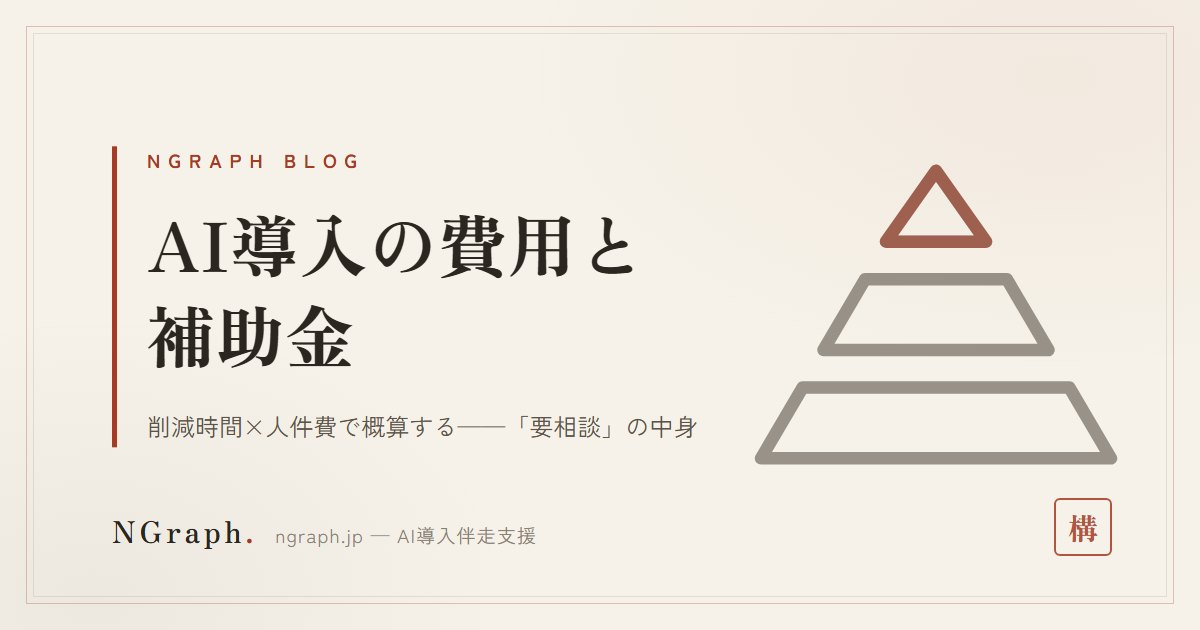
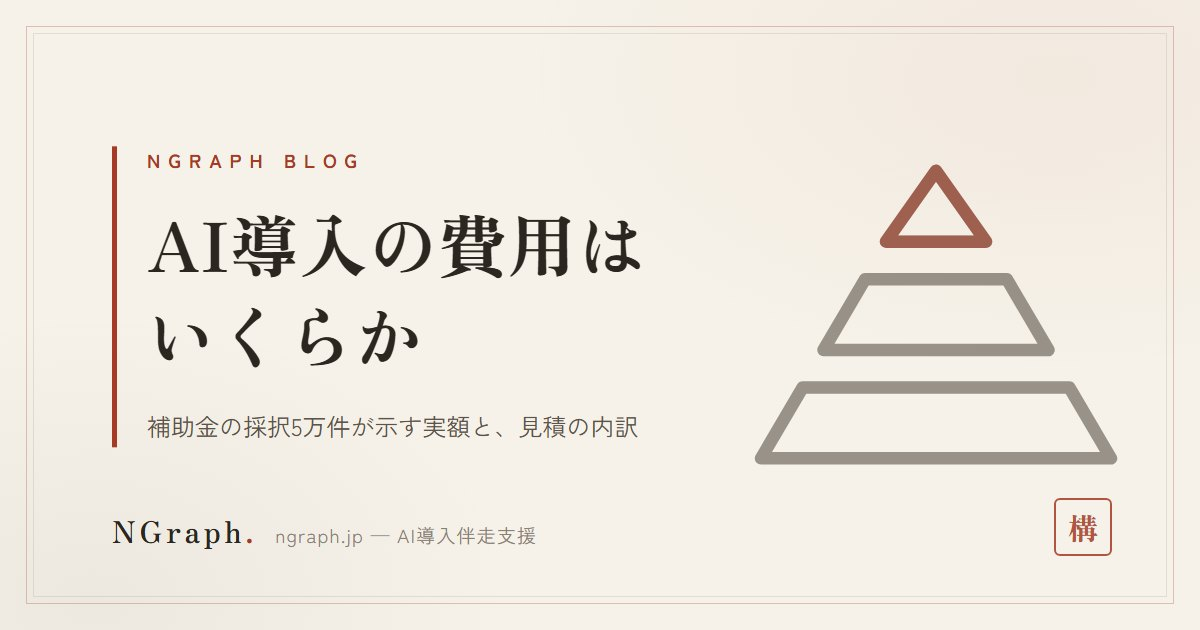
blog: ai-cost.html を深掘りB型に全面改稿
補助金採択5万件の交付額分布・3制度の実額・費用でつまずくNGパターン6つを
一次情報4本で構成し直し、1,800字程度の記事から7,000字規模のSEO/AIO資産に増強。

Changed region(s): [[0.1233, 0.4825, 0.37, 0.6032], [0.1233, 0.6635, 0.5858, 0.6937], [0.4625, 0.3317, 0.555, 0.4524]]

diff --git a/blog/ai-cost.html b/blog/ai-cost.html
@@ -10,10 +10,10 @@
   gtag('js', new Date());
   gtag('config', 'G-L96HMXRK1D');
 </script>
-<title>AI導入支援の費用はどう考えればいいか——「要相談」の中身を正直に書く | NGraphブログ</title>
-<meta name="description" content="AI導入支援の料金が「要相談」になりがちな理由と、見積の内訳を決める変数、費用対効果の考え方を正直に解説します。">
-<meta property="og:title" content="AI導入支援の費用はどう考えればいいか——「要相談」の中身を正直に書く | NGraphブログ">
-<meta property="og:description" content="AI導入支援の料金が「要相談」になりがちな理由と、見積の内訳を決める変数、費用対効果の考え方を正直に解説します。">
+<title>AI導入の費用はいくらか——補助金の採択5万件データで見る実額と見積の内訳 | NGraphブログ</title>
+<meta name="description" content="AI導入の費用は何にいくらかかるのか。補助金の採択5万件の交付額分布、3制度の補助率・上限、費用でつまずくNGパターンを一次情報で解説します。">
+<meta property="og:title" content="AI導入の費用はいくらか——補助金の採択5万件データで見る実額と見積の内訳 | NGraphブログ">
+<meta property="og:description" content="AI導入の費用は何にいくらかかるのか。補助金の採択5万件の交付額分布、3制度の補助率・上限、費用でつまずくNGパターンを一次情報で解説します。">
 <meta property="og:type" content="article">
 <meta property="og:url" content="https://ngraph.jp/blog/ai-cost.html">
 <meta property="og:site_name" content="株式会社NGraph">
@@ -21,22 +21,23 @@
 <meta property="og:image" content="https://ngraph.jp/assets/blog/ai-cost.jpg">
 <meta property="og:image:width" content="1200">
 <meta property="og:image:height" content="630">
+<meta name="twitter:card" content="summary_large_image">
 <link rel="canonical" href="https://ngraph.jp/blog/ai-cost.html">
 <link rel="icon" href="/assets/favicon.svg" type="image/svg+xml">
 <link rel="preconnect" href="https://fonts.googleapis.com">
 <link rel="preconnect" href="https://fonts.gstatic.com" crossorigin>
 <link href="https://fonts.googleapis.com/css2?family=Zen+Old+Mincho:wght@400;600;700;900&family=Zen+Kaku+Gothic+New:wght@400;500;700&family=Noto+Sans+JP:wght@400;500;700&display=swap" rel="stylesheet">
 <link rel="stylesheet" href="/css/ngraph-zen.css?v=5">
-<style>.a-faq details{border:1px solid var(--border);border-radius:3px;background:var(--bg-card);margin-bottom:10px;padding:0 18px}.a-faq summary{font-family:var(--serif);font-size:.92rem;font-weight:700;line-height:1.7;padding:14px 0;cursor:pointer;list-style:none;position:relative;padding-right:26px}.a-faq summary::after{content:"\uFF0B";position:absolute;right:2px;top:50%;transform:translateY(-50%);color:var(--accent)}.a-faq details[open] summary::after{content:"\u2212"}.a-faq details p{font-size:.86rem;color:var(--text-2);line-height:2;padding:0 0 16px}.a-note{background:rgba(166,58,36,.05);border-left:2.5px solid var(--accent);padding:16px 20px;border-radius:0 3px 3px 0;font-size:.88rem;color:var(--text-2);line-height:2.1;margin:26px 0}.a-note strong{color:var(--text)}.a-table-wrap{overflow-x:auto;margin:18px 0}.a-table{width:100%;border-collapse:collapse;font-size:.84rem}.a-table th,.a-table td{border:1px solid var(--border);padding:9px 12px;text-align:left;line-height:1.8;color:var(--text-2)}.a-table th{background:rgba(166,58,36,.05);color:var(--text);font-weight:700;white-space:nowrap}.a-eyecatch{width:100%;height:auto;display:block;border:1px solid var(--border);border-radius:4px;margin:24px 0 8px}</style>
+<style>.a-faq details{border:1px solid var(--border);border-radius:3px;background:var(--bg-card);margin-bottom:10px;padding:0 18px}.a-faq summary{font-family:var(--serif);font-size:.92rem;font-weight:700;line-height:1.7;padding:14px 0;cursor:pointer;list-style:none;position:relative;padding-right:26px}.a-faq summary::after{content:"＋";position:absolute;right:2px;top:50%;transform:translateY(-50%);color:var(--accent)}.a-faq details[open] summary::after{content:"−"}.a-faq details p{font-size:.86rem;color:var(--text-2);line-height:2;padding:0 0 16px}.a-note{background:rgba(166,58,36,.05);border-left:2.5px solid var(--accent);padding:16px 20px;border-radius:0 3px 3px 0;font-size:.88rem;color:var(--text-2);line-height:2.1;margin:26px 0}.a-note strong{color:var(--text)}.a-table-wrap{overflow-x:auto;margin:18px 0}.a-table{width:100%;border-collapse:collapse;font-size:.84rem}.a-table th,.a-table td{border:1px solid var(--border);padding:9px 12px;text-align:left;line-height:1.8;color:var(--text-2)}.a-table th{background:rgba(166,58,36,.05);color:var(--text);font-weight:700;white-space:nowrap}.a-eyecatch{width:100%;height:auto;display:block;border:1px solid var(--border);border-radius:4px;margin:24px 0 8px}.a-fig-wrap{background:var(--bg-card);border:1px solid var(--border);border-radius:4px;padding:22px 18px 14px;margin:26px 0}.a-fig-title{font-family:var(--serif);font-size:.95rem;font-weight:700;text-align:center;margin-bottom:10px;color:var(--text)}.a-fig-cap{font-size:.8rem;color:var(--text-3);line-height:1.95;margin-top:10px}.a-src{border-top:1px solid var(--border);margin-top:34px;padding-top:16px;font-size:.78rem;color:var(--text-3);line-height:2}.a-src a{color:var(--text-3);text-decoration:underline}.a-toc{background:var(--bg-card);border:1px solid var(--border);border-radius:3px;padding:16px 20px;margin:20px 0;font-size:.86rem;color:var(--text-2);line-height:2}.a-toc strong{color:var(--text)}</style>
 <script type="application/ld+json">
 {
   "@context": "https://schema.org",
   "@type": "Article",
-  "headline": "AI導入支援の費用はどう考えればいいか——「要相談」の中身を正直に書く",
+  "headline": "AI導入の費用はいくらか——補助金の採択5万件データで見る実額と見積の内訳",
   "image": "https://ngraph.jp/assets/blog/ai-cost.jpg",
-  "description": "AI導入支援の料金が「要相談」になりがちな理由と、見積の内訳を決める変数、費用対効果の考え方を正直に解説します。",
+  "description": "AI導入の費用は何にいくらかかるのか。補助金の採択5万件の交付額分布、3制度の補助率・上限、費用でつまずくNGパターンを一次情報で解説します。",
   "datePublished": "2026-07-14",
-  "dateModified": "2026-07-17",
+  "dateModified": "2026-08-01",
   "inLanguage": "ja",
   "mainEntityOfPage": "https://ngraph.jp/blog/ai-cost.html",
   "author": { "@type": "Person", "name": "髙橋 真吾", "jobTitle": "代表取締役", "url": "https://ngraph.jp/company#team", "worksFor": { "@type": "Organization", "name": "株式会社NGraph", "url": "https://ngraph.jp/" } },
@@ -53,7 +54,7 @@
    "name": "最低いくらから頼めますか？",
    "acceptedAnswer": {
     "@type": "Answer",
-    "text": "範囲を絞った数週間のスポット支援から受けています。金額は対象業務の範囲と連携の複雑さで変わるため、無料相談で前提を伺ったうえで概算をお答えしています。"
+    "text": "範囲を絞った数週間のスポット支援から受けています。金額は対象範囲・訪問頻度と期間・連携の複雑さという3つの変数で変わるため、無料相談で前提を伺ったうえで概算をお答えしています。"
    }
   },
   {
@@ -61,7 +62,7 @@
    "name": "補助金は使えますか？",
    "acceptedAnswer": {
     "@type": "Answer",
-    "text": "使える場合が多いです（本文の表を参照）。ただし交付決定前の着手は対象外になるのが原則なので、申請と着手の順序から一緒に設計することをおすすめします。"
+    "text": "使える場合が多いです。デジタル化・AI導入補助金2026、中小企業省力化投資補助金（一般型）、業務改善助成金など、AI導入に使える制度は複数あります（本文の表を参照）。ただし交付決定前の着手は対象外になるのが原則なので、申請と着手の順序から一緒に設計することをおすすめします。"
    }
   },
   {
@@ -69,7 +70,39 @@
    "name": "導入後の月額費用はどれくらいかかりますか？",
    "acceptedAnswer": {
     "@type": "Answer",
-    "text": "AIの利用料（APIやツールの課金）は使用量に応じて変わります。当社では設計の段階で「月いくらまで」の上限を決めてから組むのを標準にしています。"
+    "text": "AIの利用料（APIやツールの課金）は使用量に応じて変わります。デジタル化・AI導入補助金2026ではクラウド利用料も補助対象ですが最大2年分までなので、3年目以降は自己負担になる前提で予算を組む必要があります。当社では設計の段階で「月いくらまで」の上限を決めてから組むのを標準にしています。"
+   }
+  },
+  {
+   "@type": "Question",
+   "name": "補助金の上限額まで使ったほうが得ですか",
+   "acceptedAnswer": {
+    "@type": "Answer",
+    "text": "そうとは限りません。IT導入補助金2024の採択実績では、交付額100万円未満の採択が18,417件（36.7%）で最多だった一方、上限450万円に達した採択は105件（0.2%）にとどまりました。上限は天井であって相場ではなく、自社の課題に必要な範囲で設計するのが基本です。"
+   }
+  },
+  {
+   "@type": "Question",
+   "name": "補助金が不採択だったらどうなりますか",
+   "acceptedAnswer": {
+    "@type": "Answer",
+    "text": "IT導入補助金の採択率は2024年の69.9%から2025年は43.8%まで下がっています。不採択でも実施できるよう、補助金が採択された前提で資金繰りを組まないことが重要です。交付決定前に発注・契約すると対象外になる原則もあるため、申請から着手までの順序を最初に設計しておく必要があります。"
+   }
+  },
+  {
+   "@type": "Question",
+   "name": "AI導入の費用は経費と資産のどちらですか",
+   "acceptedAnswer": {
+    "@type": "Answer",
+    "text": "案件によって扱いが異なるため、断定はできません。会計処理・税務上の扱いは顧問税理士にご確認いただくことをおすすめします。"
+   }
+  },
+  {
+   "@type": "Question",
+   "name": "まず何から見積もればいいですか",
+   "acceptedAnswer": {
+    "@type": "Answer",
+    "text": "対象範囲（どの業務か）・訪問頻度と期間・既存システムとの連携の複雑さ、という3つの変数を整理することから始めます。当社では無料相談と現場診断を経てから見積もりを出しています。「まだ何を頼むか決まっていない」段階のご相談も歓迎です。"
    }
   }
  ]
@@ -91,41 +124,159 @@
 </header>
 
 <article class="article-wrap">
-  <div class="a-label">Blog</div>
-  <h1>AI導入支援の費用はどう考えればいいか——「要相談」の中身を正直に書く</h1>
-  <span class="a-date">2026.07.14 ｜ 株式会社NGraph</span>
+  <div class="a-label">Evening Deep Dive</div>
+  <h1>AI導入の費用はいくらか——補助金の採択5万件データで見る実額と見積の内訳</h1>
+  <span class="a-date">2026.07.14（2026.08.01 全面改稿） ｜ 株式会社NGraph</span>
   <img class="a-eyecatch" src="/assets/blog/ai-cost.jpg" alt="">
 
-<p>NGraphのFDE型伴走支援の料金は「要相談」です。ぼかしたいからではなく、<strong>課題の規模によって適正な支援の形が大きく変わる</strong>ためです。この記事では、見積が何で決まるのかを正直に書きます。</p>
-<h2>見積を決める3つの変数</h2>
+<p>AI導入の費用は「ツールの利用料」だけでは決まりません。設計や定着にかかる手間まで含めて考える必要があり、実際に中小企業がいくら動かしているかは、補助金の交付実績から推定できます。中小企業庁「デジタル化・AI導入補助金2026の概要」（令和8年4月）によれば、IT導入補助金2024の採択50,171件のうち、交付額100万円未満が18,417件（36.7%）で最多でした。この記事では、この採択データを軸に、費用の内訳と見積の考え方を一次情報で整理します。</p>
+<div class="a-toc"><strong>この記事でわかること</strong><br>
+・採択5万件が示す交付額の分布と、そこから見える実額のレンジ<br>
+・「上限450万円」と「交付額100万円未満が最多」がズレる3つの理由<br>
+・使える制度3つの実額と、費用でつまずく6つのNGパターン</div>
+
+<h2>AI導入の費用は「何に」かかるのか——3つの費目</h2>
+<p>AI導入の費用を考えるとき、まず整理すべきは「何にいくらかかるか」という費目です。大きく分けると3つに整理できます。</p>
+<div class="a-table-wrap"><table class="a-table">
+<tr><th>費目</th><th>補助対象になるか</th><th>発生タイミング</th></tr>
+<tr><td>ツール利用料</td><td>クラウド利用料として対象（最大2年分）</td><td>契約後、毎月継続</td></tr>
+<tr><td>設計・構築</td><td>ソフトウェア購入費・導入関連費（オプション）として対象</td><td>導入時に一括</td></tr>
+<tr><td>定着支援</td><td>導入関連費（役務）として対象</td><td>導入時〜運用開始後</td></tr>
+</table></div>
+<p>中小企業庁「デジタル化・AI導入補助金2026の概要」（令和8年4月）によれば、通常枠の補助対象経費には、ソフトウェア購入費、クラウド利用料（最大2年分）、導入関連費（オプション＝機能拡張やデータ連携ツールの導入・セキュリティ対策、役務＝導入・活用コンサルティング、導入設定・マニュアル作成・導入研修、保守サポート）が含まれます。つまり3つの費目はいずれも同じ補助金の対象になり得るということです。ここを知らずに「ツール代だけ」を見積もると、対象経費を使い切れず損をする設計になりがちです（後述のNGパターン④）。</p>
+
+<h2>実際にいくら出ているのか——採択5万件の交付額分布</h2>
+<p>では実際に、中小企業はいくら動かしているのでしょうか。中小企業庁の資料が示す、IT導入補助金2024の交付額規模別の採択件数（複数社連携枠を除く総計50,171件）を見ると、実額のレンジが見えてきます。</p>
+<div class="a-table-wrap"><table class="a-table">
+<tr><th>交付額規模</th><th>採択件数</th><th>構成比</th></tr>
+<tr><td>100万円未満</td><td>18,417件</td><td>36.7%</td></tr>
+<tr><td>100〜150万円未満</td><td>10,979件</td><td>21.9%</td></tr>
+<tr><td>150〜300万円未満</td><td>7,959件</td><td>15.9%</td></tr>
+<tr><td>300〜450万円未満</td><td>12,711件</td><td>25.3%</td></tr>
+<tr><td>450万円</td><td>105件</td><td>0.2%</td></tr>
+</table></div>
+<div class="a-fig-wrap">
+<p class="a-fig-title">交付額規模別の採択件数構成比（IT導入補助金2024・50,171件）</p>
+<svg viewBox="0 0 380 400" width="100%" role="img" aria-label="交付額100万円未満36.7%、100万円以上150万円未満21.9%、150万円以上300万円未満15.9%、300万円以上450万円未満25.3%、450万円0.2%、を示す横棒グラフ">
+<text x="16" y="24" font-size="15" fill="var(--text)" font-weight="700">100万円未満</text>
+<rect x="16" y="32" width="280" height="26" rx="3" fill="rgba(166,58,36,.85)"/>
+<text x="286" y="50" font-size="14" font-weight="800" fill="#fdfaf4" text-anchor="end">36.7%</text>
+<text x="16" y="98" font-size="15" fill="var(--text)" font-weight="700">100〜150万円未満</text>
+<rect x="16" y="106" width="167" height="26" rx="3" fill="rgba(92,84,74,.6)"/>
+<text x="173" y="124" font-size="14" font-weight="800" fill="#fdfaf4" text-anchor="end">21.9%</text>
+<text x="16" y="172" font-size="15" fill="var(--text)" font-weight="700">150〜300万円未満</text>
+<rect x="16" y="180" width="121" height="26" rx="3" fill="rgba(92,84,74,.45)"/>
+<text x="127" y="198" font-size="14" font-weight="800" fill="#fdfaf4" text-anchor="end">15.9%</text>
+<text x="16" y="246" font-size="15" fill="var(--text)" font-weight="700">300〜450万円未満</text>
+<rect x="16" y="254" width="193" height="26" rx="3" fill="rgba(92,84,74,.6)"/>
+<text x="183" y="272" font-size="14" font-weight="800" fill="#fdfaf4" text-anchor="end">25.3%</text>
+<text x="16" y="320" font-size="15" fill="var(--text)" font-weight="700">450万円（上限到達）</text>
+<rect x="16" y="328" width="8" height="26" rx="2" fill="rgba(92,84,74,.5)"/>
+<text x="32" y="346" font-size="14" font-weight="800" fill="var(--text-2)">0.2%</text>
+<text x="16" y="378" font-size="12.5" fill="var(--text-3)">出所：中小企業庁「デジタル化・AI導入補助金2026の概要」（令和8年4月）掲載のIT導入補助金2024実績より作成</text>
+</svg>
+<p class="a-fig-cap">件数は表の通り、100万円未満18,417件・100〜150万円未満10,979件・150〜300万円未満7,959件・300〜450万円未満12,711件・450万円105件（総計50,171件）です。</p>
+</div>
+<p>100万円未満と100〜150万円未満を合わせた「150万円未満」の採択は29,396件で、全体の58.6%を占めます。つまり、実際に交付されている金額の過半数は150万円に届いていません。上限の450万円ちょうどまで交付されたのは105件（0.2%）のみで、「上限いっぱい」はむしろ例外です。</p>
+<p>従業員規模別に見ても、採択の中心は小規模な事業者です。同資料の従業員数別採択件数では、5名未満が20,432件（構成比40.7%）、5〜50名未満が24,520件（48.9%）で、合わせて50名未満が89.6%を占めます。50〜100名未満は5.9%、100名以上は4.5%にとどまります。業種別では、建設業10,613件（21.2%）、卸売業,小売業8,873件（17.7%）、宿泊業,飲食サービス業4,986件（9.9%）が上位3業種でした。</p>
+<p style="font-size:.85rem;color:var(--text-3)">自社の場合はどのレンジになりそうか気になる方は、<a href="/fde/" style="color:var(--accent);border-bottom:1px solid var(--accent)">無料のAI診断</a>で現在地を確認できます。</p>
+
+<h2>「上限450万円」と「交付額100万円未満が最多」がズレる3つの理由</h2>
+<p>「補助上限は450万円」と聞くと、それが相場だと思ってしまいがちですが、実際の採択データは100万円未満が最多です。このズレには3つの理由があります。</p>
+<p><strong>① 上限は天井であって相場ではない。</strong>上限額は「これ以上は出ない」という天井の金額であり、平均的にいくら出るかを示す数字ではありません。前述の通り、実際の採択の58.6%は150万円未満に収まっています。</p>
+<p><strong>② 補助額と投資総額は別物。</strong>補助金として交付される金額と、実際に投じる投資総額は別の数字です。デジタル化・AI導入補助金2026の通常枠は補助率1/2以内のため、計算上は投資総額のおよそ2倍を自己資金・自己負担で用意する前提になります。例えば、投資総額600万円のプロジェクトに補助率1/2をかけると、計算上の補助額は300万円です。プロセス数4つ以上の枠の上限450万円以下に収まるため、そのまま300万円が交付されます。一方、投資総額1,000万円なら計算上の補助額は500万円ですが、上限450万円で頭打ちになり、差額の50万円は自己負担が増えることになります。</p>
+<div class="a-fig-wrap">
+<p class="a-fig-title">補助額はどう決まるか——投資総額から交付額までの流れ</p>
+<svg viewBox="0 0 400 474" width="100%" role="img" aria-label="投資総額に補助率をかけて計算上の補助額を求め、上限額と比較して低い方が実際の交付額になる流れを示す図">
+<rect x="40" y="10" width="320" height="64" rx="6" fill="rgba(166,58,36,.08)" stroke="var(--border)"/>
+<text x="200" y="49" font-size="18" font-weight="700" fill="var(--text)" text-anchor="middle">投資総額</text>
+<text x="200" y="102" font-size="20" fill="var(--text-2)" text-anchor="middle">↓</text>
+<text x="200" y="122" font-size="13" fill="var(--text-2)" text-anchor="middle">× 補助率（1/2など）</text>
+<rect x="40" y="140" width="320" height="64" rx="6" fill="var(--bg-card)" stroke="var(--border)"/>
+<text x="200" y="179" font-size="18" font-weight="700" fill="var(--text)" text-anchor="middle">補助額（計算上）</text>
+<text x="200" y="232" font-size="20" fill="var(--text-2)" text-anchor="middle">↓</text>
+<text x="200" y="252" font-size="13" fill="var(--text-2)" text-anchor="middle">上限額と比較する</text>
+<rect x="40" y="270" width="320" height="64" rx="6" fill="var(--bg-card)" stroke="var(--border)"/>
+<text x="200" y="309" font-size="18" font-weight="700" fill="var(--text)" text-anchor="middle">上限額（枠ごとに設定）</text>
+<text x="200" y="362" font-size="20" fill="var(--text-2)" text-anchor="middle">↓</text>
+<text x="200" y="382" font-size="13" fill="var(--text-2)" text-anchor="middle">低い方が採用される</text>
+<rect x="40" y="400" width="320" height="64" rx="6" fill="rgba(166,58,36,.14)" stroke="var(--accent)"/>
+<text x="200" y="439" font-size="18" font-weight="800" fill="var(--accent)" text-anchor="middle">実際の交付額</text>
+</svg>
+<p class="a-fig-cap">例えば、投資総額600万円に補助率1/2をかけると計算上の補助額は300万円で、上限450万円以下に収まるためそのまま300万円が交付されます。投資総額1,000万円なら計算上は500万円ですが、上限450万円と比べて低い方の450万円が交付額になります。</p>
+</div>
+<p><strong>③ 枠ごとに上限の決まり方が違う。</strong>デジタル化・AI導入補助金2026の通常枠では、ITツールのプロセス数が1〜3つまでなら補助額5万円〜150万円未満（補助率1/2以内）、4つ以上なら150万円〜450万円以下（補助率1/2以内）と、プロセス数によって上限が切り替わります。さらに、令和6年10月から令和7年9月の間、地域別最低賃金以上・改定後最低賃金未満の水準で雇用する従業員が全従業員の30%以上の月が3か月以上あった事業者は補助率が2/3に上がり、プロセス4つ以上の枠では賃金引上げ計画の策定・表明が追加で必要になります。インボイス枠（インボイス対応類型）はさらに仕組みが異なり、「会計」「受発注」「決済」のうち2機能以上を満たせば350万円以下まで申請できますが、1機能なら50万円以下が上限です。同じ「補助金」でも上限の決まり方が枠ごとにまったく違うため、「上限450万円」という数字だけで自社の相場を判断することはできません。</p>
+
+<h2>使える制度3つの実額（2026年8月時点）</h2>
+<p>実際にAI導入で使える公的制度を3つ、2026年8月時点の内容で整理します。</p>
+<div class="a-table-wrap"><table class="a-table">
+<tr><th>制度</th><th>補助率・助成率</th><th>上限額</th><th>条件</th><th>着手タイミング</th></tr>
+<tr><td>AI導入補助金2026<br>（通常枠）</td><td>1/2以内<br>（要件により2/3）</td><td>450万円以下<br>※プロセス4つ以上</td><td>IT導入支援事業者経由で申請</td><td>交付決定を経てから契約・購入</td></tr>
+<tr><td>省力化投資補助金<br>（一般型）</td><td>1/2<br>（小規模2/3・賃上げ特例2/3〜）</td><td>750万円〜8,000万円<br>（賃上げ特例1,000万円〜1億円）</td><td>GビズIDプライムアカウント必須</td><td>交付決定後<br>（第8回は8月中旬公募・9月中旬受付・10月中旬締切予定）</td></tr>
+<tr><td>業務改善助成金</td><td>3/4〜4/5</td><td>最大600万円</td><td>事業場内最低賃金を50円以上引上げ</td><td>交付決定前の設備導入は対象外</td></tr>
+</table></div>
+<p style="font-size:.8rem;color:var(--text-3)">※公募時期・要件は年度で変わるため、最新の公式情報の確認が前提です。</p>
+<p>業務改善助成金には厚生労働省が示す公式の計算例があります。事業場内最低賃金1,040円（助成率4/5）の事業者が8人の労働者を1,130円まで引き上げる場合（90円コース・助成上限450万円）、設備投資600万円を行うと、600万円×4/5＝480万円と上限450万円を比べ、低い方の450万円が支給されます。上限は「使い切れる金額」ではなく、投資額と助成率の計算結果を上限額と比較して決まる仕組みだとわかります。</p>
+
+<h2>採択率は下がっている——2024年69.9%から2025年43.8%へ</h2>
+<p>使える制度があっても、申請すれば必ず通るわけではありません。IT導入補助金の採択率は年々下がっています。</p>
+<div class="a-table-wrap"><table class="a-table">
+<tr><th>年度</th><th>申請件数</th><th>採択件数</th><th>採択率</th><th>通常枠採択率</th><th>インボイス対応類型採択率</th></tr>
+<tr><td>2024年度</td><td>71,767件</td><td>50,175件</td><td>69.9%</td><td>65.8%<br>（25,140件→16,540件）</td><td>72.1%<br>（46,394件→33,438件）</td></tr>
+<tr><td>2025年度</td><td>80,439件</td><td>35,202件</td><td>43.8%</td><td>37.7%<br>（23,672件→8,936件）</td><td>46.2%<br>（56,029件→25,900件）</td></tr>
+</table></div>
+<p>全体の採択率は2024年の69.9%から2025年は43.8%まで下がりました。特に通常枠は65.8%から37.7%へと大きく低下しています。つまり、<strong>補助金が採択された前提で資金繰りを組むのは危険</strong>だということです。申請すれば通る、という前提でツールの契約や人員計画を先に進めてしまうと、不採択だった場合に資金繰りが崩れます。</p>
+<p style="font-size:.85rem;color:var(--text-3)">申請手続きの詳細は、当ブログの関連記事もあわせてご覧ください：<a href="/blog/20260724-ai-subsidy-2026.html">デジタル化・AI導入補助金2026とは？</a>／<a href="/blog/20260725-shoryokuka-subsidy.html">省力化投資補助金 第7回の申請スケジュール</a>／<a href="/blog/20260725-gbizid.html">GビズIDとは？申請の最初の壁</a></p>
+
+<h2>費用はどこに消えるか——現場で見てきた内訳</h2>
+<p>ここまでは公的統計の話でした。ここからは、私たちが実際の現場で見てきた費用の内訳の話です。</p>
+<div class="a-note"><strong>現場の話：</strong>福井の飲食グループ本部（12店舗）の多言語メニュー整備に取り組んだ際、費用の重心は「AIツールの利用料」ではなく「元データを整える手間」の方に大きく寄っていました。メニュー名・食材・アレルゲン情報が店舗ごとに表記が揺れていたり、そもそもデータ化されていなかったりする状態から、AIに読み込ませられる形に整えるまでの作業が、体感としては全体の作業量の大半を占めました。AIそのものの利用料は、この「元データを整える手間」に比べればごく一部です。</div>
+<p>見積を決める変数として整理すると、次の3つになります。</p>
 <ol>
 <li><strong>対象範囲</strong>：一部署の特定業務か、複数部署への展開か。対象業務の数がそのまま設計・構築の工数になります</li>
 <li><strong>訪問頻度と期間</strong>：週何日現場に入るか、何ヶ月伴走するか。スポットの集中支援と、数ヶ月の常駐型では体制が変わります</li>
 <li><strong>連携の複雑さ</strong>：既存システムとの接続が多いほど、設計・テストの工数が増えます</li>
 </ol>
-<h2>費用対効果の見方</h2>
-<p>AI導入の効果は「削減される作業時間×その業務の人件費」で概算できます。たとえば毎月10時間かかっている定型作業が2時間になれば、月8時間分の人件費が浮き続けます。仕組みは一度つくれば動き続けるので、<strong>効果は継続、費用は立ち上げ期に集中</strong>という構造です。だからこそ、対象業務の選び方（時間を食っている定型業務から着手する）が費用対効果を左右します。</p>
-<h2>安く始めるための現実的な工夫</h2>
+<p>この3つのうち、費用に最も効くのは「対象範囲」の広さと、対象データがどれだけ整っているかです。ツールの月額料金は数千円〜数万円のレンジで大きくは動きませんが、対象範囲とデータの整備状況は、工数を数倍単位で動かします。</p>
+
+<h2>費用でつまずくNGパターン6つ</h2>
+<p>現場と補助金データの両方から見えてきた、費用面でつまずきやすい6つのパターンを挙げます。</p>
 <ul>
-<li><strong>範囲を絞って始める</strong>：全社一斉ではなく、効果が見えやすい一点から。成果を確認してから広げる方が総額も安全です</li>
-<li><strong>既存ツールを活かす</strong>：システム刷新を伴わない組み込みなら、初期費用は大きく抑えられます</li>
-<li><strong>自走をゴールにする</strong>：ずっと外部に頼る前提ではなく、現場が自分で回せる状態を最初からゴールに置くと、支援期間を区切れます</li>
+<li><strong>① 交付決定前に発注してしまう。</strong>業務改善助成金では「交付決定前に助成対象設備の導入を行った場合は助成の対象とならない」と明記されています。同様の原則は他の補助金・助成金でも広く採用されており、「良いツールを見つけたのですぐ契約したい」という気持ちが、補助金を使えなくする一番の落とし穴です。</li>
+<li><strong>② クラウド利用料の補助は最大2年分——3年目以降の予算を見ていない。</strong>デジタル化・AI導入補助金2026の通常枠では、クラウド利用料が補助対象になりますが、最大2年分までです。3年目以降のクラウド利用料は全額自己負担になります。導入時の見積もりだけで判断し、3年目以降の運用予算を見込んでいないと、補助期間が終わった瞬間に予算が足りなくなります。</li>
+<li><strong>③ 上限額から逆算して「使い切る」設計にする。</strong>上限450万円に合わせて、必要以上にプロセス数を増やしたり機能を積み増したりする設計は本末転倒です。実際の採択の58.6%は150万円未満に収まっており、「上限まで使う」ことは平均的な姿ではありません。自社の課題解決に必要な範囲で設計し、結果として補助額が決まる、という順序が正しい考え方です。</li>
+<li><strong>④ ツール代だけ見て定着コストを計上しない。</strong>通常枠の補助対象経費には、導入設定・マニュアル作成・導入研修、保守サポートといった「役務」も含まれます。ツールのライセンス費用だけを見積もりに入れ、定着支援（研修・マニュアル）を計上しないのは、対象経費なのに使わない機会損失です。</li>
+<li><strong>⑤ 採択前提で資金繰りを組む。</strong>前述の通り、IT導入補助金の採択率は2025年で43.8%まで下がっています。申請すれば通る前提で先に発注・契約を進めるのは、①の交付決定前発注の問題と合わせて二重にリスクがあります。</li>
+<li><strong>⑥ ベンダー選定の判断材料がないまま相見積もりを取る。</strong>中小企業基盤整備機構（中小機構）の調査では、79.8%の企業が「適切なベンダーや製品を選定する情報が十分にある」に当てはまらないと回答しています。判断材料がないまま相見積もりだけを取っても、金額の妥当性を判断できません。自社の業務のどこに、何を、どう当てはめるかを先に整理してから、ベンダーに相談するのが順序です。</li>
 </ul>
-<h2>まずは無料相談で「見積の前提」を揃える</h2>
-<p>正確な見積には、現状の業務と困りごとのヒアリングが必要です。NGraphでは無料相談と現場診断を経てからお見積りします。「まだ何を頼むか決まっていない」段階のご相談も歓迎です。現状整理だけでも持ち帰る価値があるはずです。</p>
+<p style="font-size:.85rem;color:var(--text-3)">自社に必要な範囲や制度の使い方に迷ったら、<a href="/fde/" style="color:var(--accent);border-bottom:1px solid var(--accent)">無料相談・無料AI診断</a>からご相談ください。</p>
 
+<h2>よくある質問</h2>
+<div class="a-faq">
+<details><summary>最低いくらから頼めますか？</summary><p>範囲を絞った数週間のスポット支援から受けています。金額は対象範囲・訪問頻度と期間・連携の複雑さという3つの変数で変わるため、無料相談で前提を伺ったうえで概算をお答えしています。</p></details>
+<details><summary>補助金は使えますか？</summary><p>使える場合が多いです。デジタル化・AI導入補助金2026、中小企業省力化投資補助金（一般型）、業務改善助成金など、AI導入に使える制度は複数あります（本文の表を参照）。ただし交付決定前の着手は対象外になるのが原則なので、申請と着手の順序から一緒に設計することをおすすめします。</p></details>
+<details><summary>導入後の月額費用はどれくらいかかりますか？</summary><p>AIの利用料（APIやツールの課金）は使用量に応じて変わります。デジタル化・AI導入補助金2026ではクラウド利用料も補助対象ですが最大2年分までなので、3年目以降は自己負担になる前提で予算を組む必要があります。当社では設計の段階で「月いくらまで」の上限を決めてから組むのを標準にしています。</p></details>
+<details><summary>補助金の上限額まで使ったほうが得ですか</summary><p>そうとは限りません。IT導入補助金2024の採択実績では、交付額100万円未満の採択が18,417件（36.7%）で最多だった一方、上限450万円に達した採択は105件（0.2%）にとどまりました。上限は天井であって相場ではなく、自社の課題に必要な範囲で設計するのが基本です。</p></details>
+<details><summary>補助金が不採択だったらどうなりますか</summary><p>IT導入補助金の採択率は2024年の69.9%から2025年は43.8%まで下がっています。不採択でも実施できるよう、補助金が採択された前提で資金繰りを組まないことが重要です。交付決定前に発注・契約すると対象外になる原則もあるため、申請から着手までの順序を最初に設計しておく必要があります。</p></details>
+<details><summary>AI導入の費用は経費と資産のどちらですか</summary><p>案件によって扱いが異なるため、断定はできません。会計処理・税務上の扱いは顧問税理士にご確認いただくことをおすすめします。</p></details>
+<details><summary>まず何から見積もればいいですか</summary><p>対象範囲（どの業務か）・訪問頻度と期間・既存システムとの連携の複雑さ、という3つの変数を整理することから始めます。当社では無料相談と現場診断を経てから見積もりを出しています。「まだ何を頼むか決まっていない」段階のご相談も歓迎です。</p></details>
+</div>
 
-
-<div class="a-note"><strong>当社の考え方：</strong>効果は「削減される作業時間 × 人件費」で概算します。たとえば毎週3時間の転記作業がなくなれば年間150時間強。人件費は額面の時給ではなく、社会保険料など会社負担まで含めた実質単価（正社員なら目安1,500〜2,000円/時）で見るのが正確で、換算すると年間約23〜30万円の効果です。投資額がその何倍にあたるかで判断すれば、AI導入は「気合」ではなく算数になります。</div>
-<h2>補助金という選択肢（2026年7月時点の概要）</h2><p>中小企業のAI導入には、国の補助制度を使える場合があります。代表的な3つを挙げます。</p><div class="a-table-wrap"><table class="a-table"><tr><th>制度</th><th>補助率</th><th>上限額の目安</th><th>特徴</th></tr><tr><td>デジタル化・AI導入補助金（旧IT導入補助金）</td><td>1/2（条件により2/3）</td><td>150万円未満（1プロセス）</td><td>通年で複数締切。登録済みツール・登録支援事業者を通す方式</td></tr><tr><td>中小企業省力化投資補助金（一般型）</td><td>1/2（賃上げ特例で2/3）</td><td>従業員数により750万円〜</td><td>業務に合わせて専用開発するシステムが対象。賃上げ等の要件あり</td></tr><tr><td>業務改善助成金</td><td>3/4〜4/5</td><td>最大600万円</td><td>事業場内最低賃金の引き上げが条件。予算枯渇が早い傾向</td></tr></table></div><p style="font-size:.8rem;color:var(--text-3)">※公募時期・要件は年度で変わります。最新の公式情報の確認が前提です。また、交付決定前に発注したものは対象外になるのが原則のため、着手の順序から設計する必要があります。</p>
-<h2>よくある質問</h2><div class="a-faq"><details><summary>最低いくらから頼めますか？</summary><p>範囲を絞った数週間のスポット支援から受けています。金額は対象業務の範囲と連携の複雑さで変わるため、無料相談で前提を伺ったうえで概算をお答えしています。</p></details><details><summary>補助金は使えますか？</summary><p>使える場合が多いです（本文の表を参照）。ただし交付決定前の着手は対象外になるのが原則なので、申請と着手の順序から一緒に設計することをおすすめします。</p></details><details><summary>導入後の月額費用はどれくらいかかりますか？</summary><p>AIの利用料（APIやツールの課金）は使用量に応じて変わります。当社では設計の段階で「月いくらまで」の上限を決めてから組むのを標準にしています。</p></details></div>
+<h2>まとめ——費用は「額」ではなく「順序」で決まる</h2>
+<p>ここまで見てきた通り、AI導入の費用は「いくらか」という額そのものより、「どの順序で動くか」の方が重要です。申請してから交付決定を待ち、交付決定を受けてから契約・着手する——この順序を守るだけで、①交付決定前発注と⑤採択前提の資金繰りという、最も痛手の大きい2つのNGパターンを避けられます。実額のレンジで言えば、採択の58.6%は150万円未満に収まっており、上限450万円は例外的な天井です。まずは自社の対象業務を1つに絞り、見積を決める3つの変数（対象範囲・訪問頻度と期間・連携の複雑さ）を整理するところから始めてください。</p>
 
 <div class="a-cta">
-  <p style="font-family:var(--serif);font-size:1.02rem;font-weight:700;color:var(--text)">AI導入の現在地の整理から、現場での実装・定着まで。</p>
-  <p>エンジニアが御社の現場に入るFDE型伴走支援を提供しています。相談は無料です。</p>
+  <p style="font-family:var(--serif);font-size:1.02rem;font-weight:700;color:var(--text)">「うちの場合はいくらかかるか」から、一緒に見積もります。</p>
+  <p>エンジニアが御社の現場に入るFDE型伴走支援を提供しています。8問の無料AI診断で現在地もわかります。</p>
   <a href="/entry.html" class="btn btn-primary">無料で相談する</a>
   <p style="margin-top:14px;font-size:.78rem"><a href="/fde/" style="color:var(--accent);border-bottom:1px solid var(--accent)">FDE型AI導入支援のサービス詳細・無料AI診断はこちら →</a></p>
 </div>
+
+<div class="a-src">参考（一次情報）：<br>
+・独立行政法人 中小企業基盤整備機構「<a href="https://www.smrj.go.jp/research_case/questionnaire/fbrion0000002pjw-att/202603_AI_point.pdf" target="_blank" rel="noopener">中小企業のAI等の利活用に係る実態調査</a>」（2026年3月公表）<br>
+・中小企業庁「<a href="https://www.chusho.meti.go.jp/koukai/yosan/r8/digital_ai_summary.pdf" target="_blank" rel="noopener">「デジタル化・AI導入補助金2026」の概要</a>」（令和8年4月）<br>
+・<a href="https://shoryokuka.smrj.go.jp/ippan/" target="_blank" rel="noopener">中小企業省力化投資補助金（一般型）</a><br>
+・厚生労働省「<a href="https://www.mhlw.go.jp/stf/seisakunitsuite/bunya/koyou_roudou/roudoukijun/zigyonushi/shienjigyou/03.html" target="_blank" rel="noopener">業務改善助成金</a>」（令和8年度）</div>
 
   <a href="/blog/" class="a-back">← ブログ一覧に戻る</a>
 </article>

diff --git a/blog/index.html b/blog/index.html
@@ -259,8 +259,8 @@
       <div class="card blog-card">
         <span class="b-date">2026.07.14</span>
         <a href="/blog/ai-cost.html" class="b-thumb"><img src="/assets/blog/ai-cost.jpg" alt="" loading="lazy"></a>
-        <h3><a href="/blog/ai-cost.html">AI導入支援の費用はどう考えればいいか——「要相談」の中身を正直に書く</a></h3>
-        <p class="b-excerpt">なぜAI導入支援は「要相談」なのか。見積を決める変数と、費用対効果の見方を正直に。</p>
+        <h3><a href="/blog/ai-cost.html">AI導入の費用はいくらか——補助金の採択5万件データで見る実額と見積の内訳</a></h3>
+        <p class="b-excerpt">補助金の採択5万件の交付額分布と、費用でつまずく6つのNGパターンを一次情報で解説します。</p>
         <a href="/blog/ai-cost.html" class="b-more">読む →</a>
       </div>
       <div class="card blog-card">
